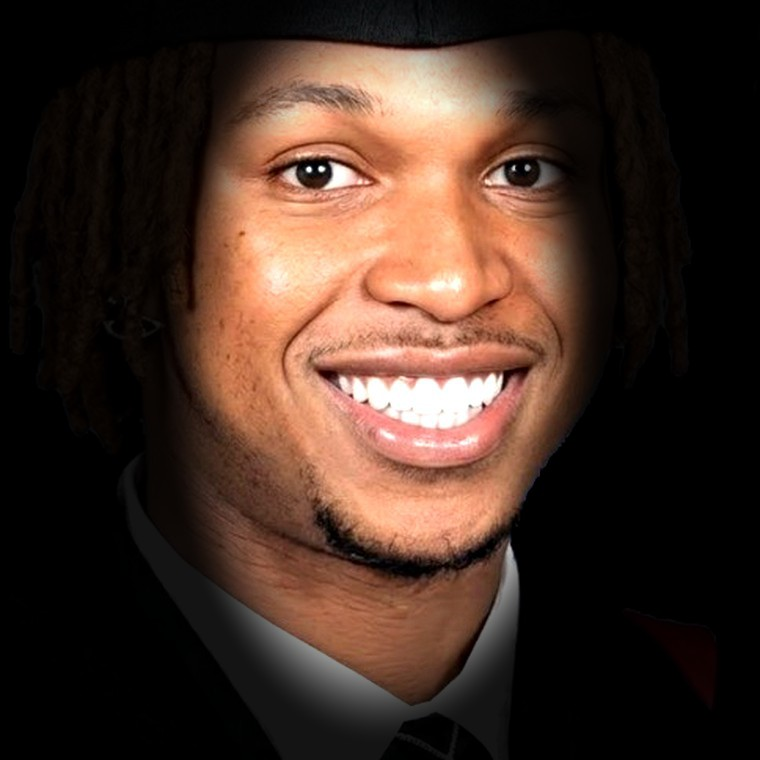
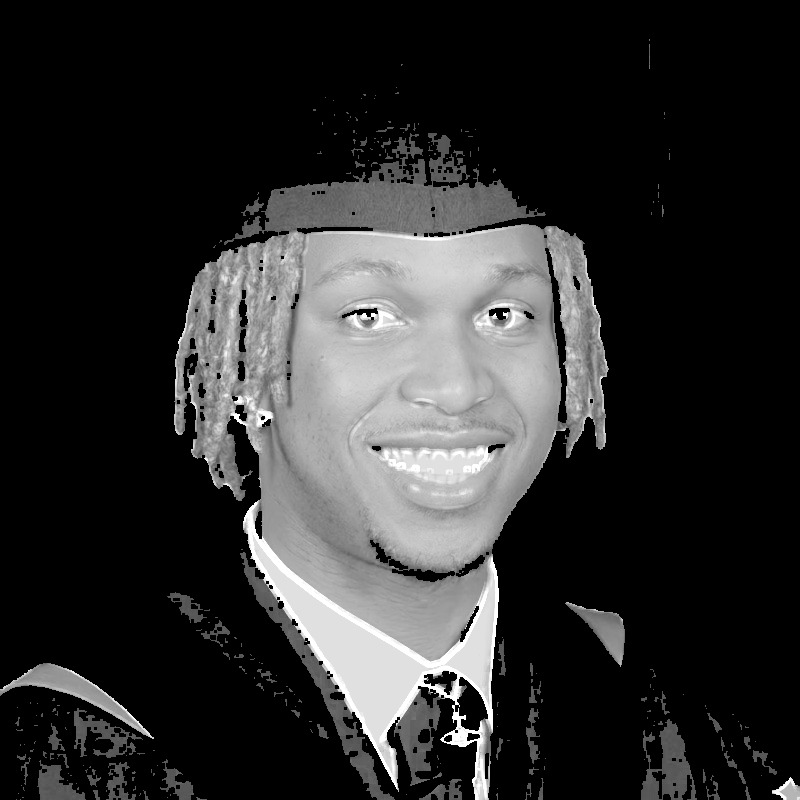
Hero: restore full graduation portrait (cap + suit + smile) via shadow-lift + edge outlines; align sampling curve

diff --git a/index.html b/index.html
@@ -631,7 +631,7 @@ if(face.complete&&face.naturalWidth){faceOK=true;}
 function sampleFace(){
   if(!faceOK||!cols){flum=[];return;}
   oc.width=cols;oc.height=rows;ox.clearRect(0,0,cols,rows);
-  var startC=Math.floor(cols*0.42),rw=cols-startC,rh=rows,iw=face.naturalWidth,ih=face.naturalHeight;
+  var startC=Math.floor(cols*0.40),rw=cols-startC,rh=rows,iw=face.naturalWidth,ih=face.naturalHeight;
   var scale=Math.max(rw/iw,rh/ih),dw=iw*scale,dh=ih*scale,dx=startC+(rw-dw)/2,dy=(rh-dh)/2;
   ox.drawImage(face,dx,dy,dw,dh);
   var d;try{d=ox.getImageData(0,0,cols,rows).data;}catch(e){return;}
@@ -640,8 +640,8 @@ function sampleFace(){
     var col=i%cols;
     if(col<startC){flum[i]=0;continue;}
     var lum=(0.299*d[i*4]+0.587*d[i*4+1]+0.114*d[i*4+2])/255;
-    lum=(lum-0.15)/0.62; lum=lum<0?0:lum>1?1:lum;
-    flum[i]=Math.pow(lum,0.80)*0.98;
+    lum=(lum-0.12)/0.64; lum=lum<0?0:lum>1?1:lum;
+    flum[i]=Math.pow(lum,0.78)*0.99;
   }
 }
 function size(){DPR=Math.min(devicePixelRatio||1,2);W=cv.clientWidth;H=cv.clientHeight;cv.width=W*DPR;cv.height=H*DPR;x.setTransform(DPR,0,0,DPR,0,0);
@@ -666,9 +666,9 @@ function frame(){
     g.b+=(target-g.b)*0.15;
     if(Math.random()<0.008+spot*0.06+fb*0.03) g.c=Math.random()<.5?"0":"1";
     var b=g.b;
-    if(b<0.12){x.fillStyle="rgba(120,120,140,"+(0.03+b*0.7).toFixed(3)+")";}
+    if(b<0.10){x.fillStyle="rgba(120,120,140,"+(0.03+b*0.7).toFixed(3)+")";}
     else{
-      var lv=(b-0.12)/0.88, rr,gg,bb;
+      var lv=(b-0.10)/0.90, rr,gg,bb;
       if(lv<0.7){var u=lv/0.7;rr=Math.round(150+105*u);gg=Math.round(18+28*u);bb=Math.round(78+58*u);}
       else{var w=(lv-0.7)/0.3;rr=255;gg=Math.round(46+209*w);bb=Math.round(136+119*w);}
       x.fillStyle="rgb("+rr+","+gg+","+bb+")";
